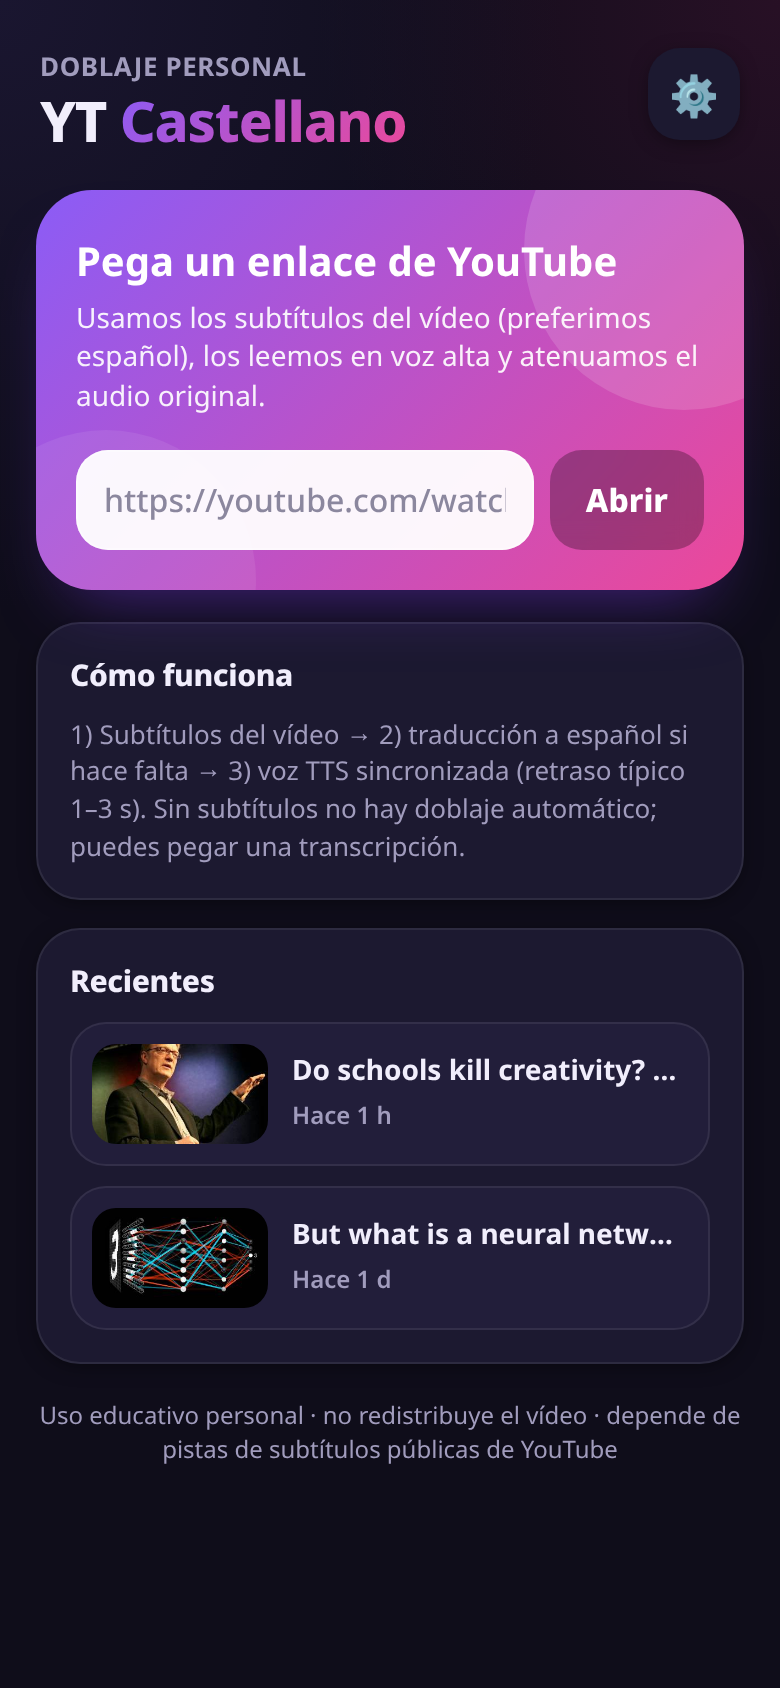
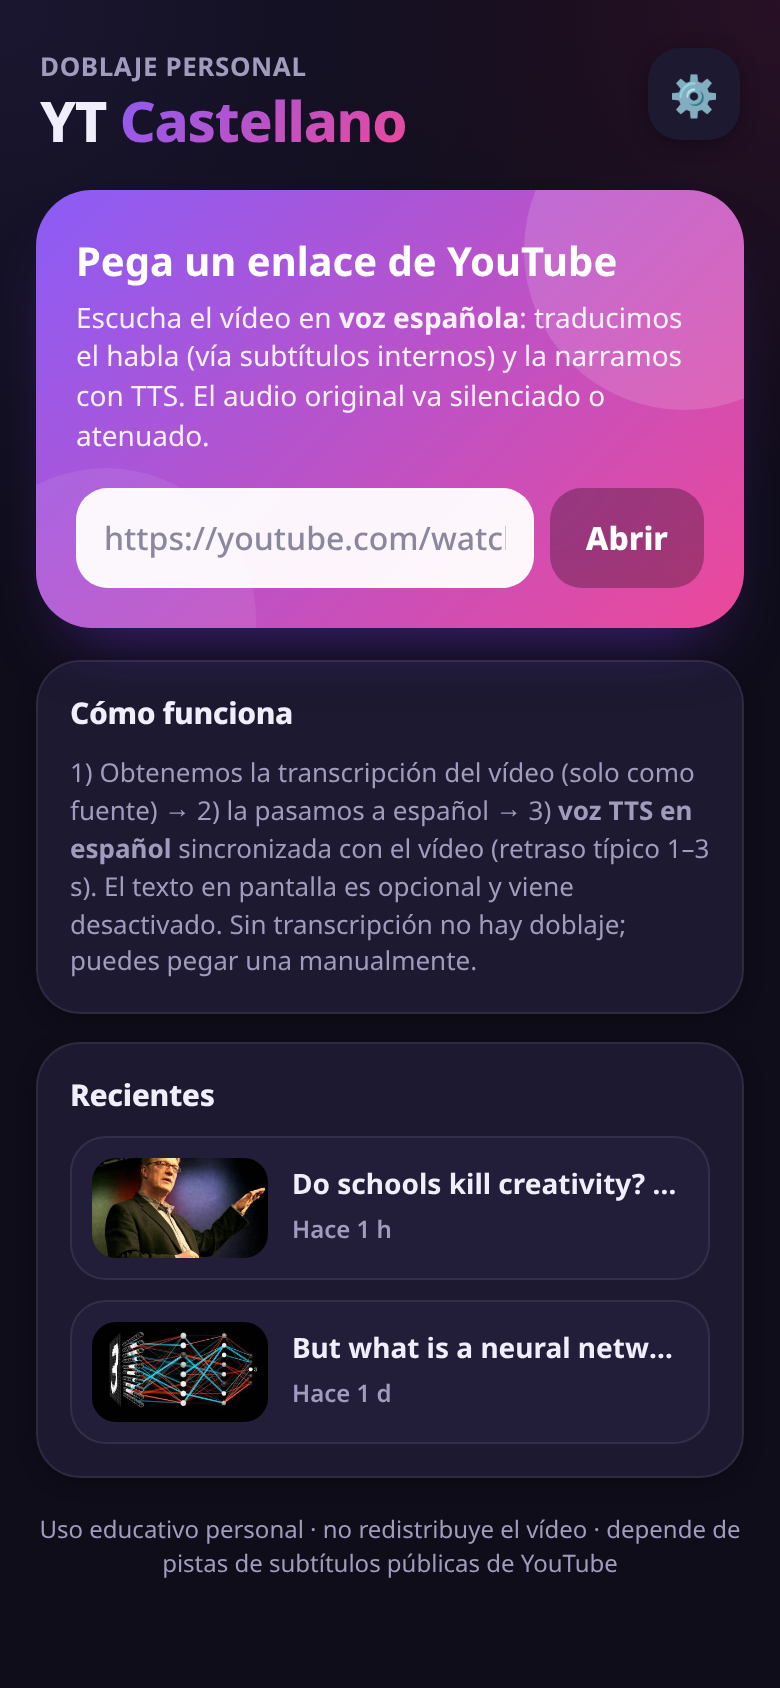
Voice-first defaults: mute original, captions off
Spanish TTS is the product; on-screen text optional.
Bump SW cache; refresh screenshots; Pages workflow.

diff --git a/app.js b/app.js
@@ -49,13 +49,13 @@
   ];
 
   const DEFAULT_SETTINGS = {
-    originalVolume: 20,      // 0–100 YouTube volume while Spanish speaks
-    idleVolume: 55,          // volume when not speaking
-    muteOriginal: false,
+    originalVolume: 8,       // residual original while Spanish speaks (if not muted)
+    idleVolume: 25,          // original between Spanish phrases (if not muted)
+    muteOriginal: true,      // product default: hear Spanish voice, not English audio
     voiceRate: 1.05,
     voicePitch: 1,
-    showCaptions: true,
-    lookahead: 0.35,         // seconds before caption start to trigger TTS
+    showCaptions: false,     // on-screen Spanish text is optional; TTS is the product
+    lookahead: 0.35,         // seconds before segment start to trigger TTS
     ducking: true,
     preferSpanishTrack: true,
     captionProxy: '',        // optional Cloudflare Worker URL
@@ -401,7 +401,7 @@
       if (found >= 0) idx = found;
     }
     if (idx < 0 || !state.segments[idx]) {
-      el.innerHTML = '<span style="color:var(--muted);font-weight:600">Esperando voz en español…</span>';
+      el.innerHTML = '<span style="color:var(--muted);font-weight:600">Reproduciendo voz en español…</span>';
       return;
     }
     const s = state.segments[idx];
@@ -437,7 +437,7 @@
       events: {
         onReady: (e) => {
           applyDucking(false);
-          state.status = { kind: 'ok', msg: `${state.segments.length} frases listas · voz ES` };
+          state.status = { kind: 'ok', msg: `Voz española activa · ${state.segments.length} frases` };
           renderStatusOnly();
           syncLoop();
           try { e.target.playVideo(); } catch { /* autoplay may block */ }
@@ -495,7 +495,7 @@
 
       <section class="hero-card">
         <h2>Pega un enlace de YouTube</h2>
-        <p>Usamos los subtítulos del vídeo (preferimos español), los leemos en voz alta y atenuamos el audio original.</p>
+        <p>Escucha el vídeo en <b>voz española</b>: traducimos el habla (vía subtítulos internos) y la narramos con TTS. El audio original va silenciado o atenuado.</p>
         <div class="url-row">
           <input id="url-input" type="url" inputmode="url" autocomplete="off" spellcheck="false"
             placeholder="https://youtube.com/watch?v=…">
@@ -505,7 +505,7 @@
 
       <section class="card">
         <h3>Cómo funciona</h3>
-        <p class="hint">1) Subtítulos del vídeo → 2) traducción a español si hace falta → 3) voz TTS sincronizada (retraso típico 1–3 s). Sin subtítulos no hay doblaje automático; puedes pegar una transcripción.</p>
+        <p class="hint">1) Obtenemos la transcripción del vídeo (solo como fuente) → 2) la pasamos a español → 3) <b>voz TTS en español</b> sincronizada con el vídeo (retraso típico 1–3 s). El texto en pantalla es opcional y viene desactivado. Sin transcripción no hay doblaje; puedes pegar una manualmente.</p>
       </section>
 
       <section class="card">
@@ -535,7 +535,7 @@
       </div>
 
       <div class="caption-box ${state.settings.showCaptions ? '' : 'hidden'}" id="caption-box">
-        <span style="color:var(--muted);font-weight:600">Cargando subtítulos…</span>
+        <span style="color:var(--muted);font-weight:600">Preparando voz en español…</span>
       </div>
 
       <div class="card controls">
@@ -555,8 +555,8 @@
           <input type="range" id="rng-rate" min="0.7" max="1.4" step="0.05" value="${state.settings.voiceRate}">
           <output id="out-rate">${Number(state.settings.voiceRate).toFixed(2)}×</output>
         </div>
-        <div class="toggle" id="tog-mute"><span>Silenciar original</span><button type="button" class="switch ${state.settings.muteOriginal ? 'on' : ''}" data-key="muteOriginal" aria-pressed="${state.settings.muteOriginal}"></button></div>
-        <div class="toggle" id="tog-caps"><span>Mostrar texto en español</span><button type="button" class="switch ${state.settings.showCaptions ? 'on' : ''}" data-key="showCaptions" aria-pressed="${state.settings.showCaptions}"></button></div>
+        <div class="toggle" id="tog-mute"><span>Silenciar audio original (recomendado)</span><button type="button" class="switch ${state.settings.muteOriginal ? 'on' : ''}" data-key="muteOriginal" aria-pressed="${state.settings.muteOriginal}"></button></div>
+        <div class="toggle" id="tog-caps"><span>Mostrar texto (opcional)</span><button type="button" class="switch ${state.settings.showCaptions ? 'on' : ''}" data-key="showCaptions" aria-pressed="${state.settings.showCaptions}"></button></div>
       </div>
 
       <div class="play-bar">
@@ -795,7 +795,7 @@
     state.segments = [];
     state.lastSpokenIdx = -1;
     state.currentIdx = -1;
-    state.status = { kind: 'busy', msg: 'Buscando subtítulos…' };
+    state.status = { kind: 'busy', msg: 'Preparando doblaje en español…' };
     state.view = 'player';
     render();
 
@@ -812,15 +812,15 @@
         }
       } catch { /* */ }
       pushRecent(id, state.title);
-      state.status = { kind: 'ok', msg: `${segments.length} frases · origen ${langUsed}` };
+      state.status = { kind: 'ok', msg: `Voz ES lista · ${segments.length} frases` };
       renderStatusOnly();
       updateCaptionBox(0);
       if (state.ytReady) mountPlayer();
     } catch (err) {
       console.error(err);
-      state.status = { kind: 'err', msg: 'Sin subtítulos — pega una transcripción' };
+      state.status = { kind: 'err', msg: 'Sin transcripción — pégala para poder doblar' };
       renderStatusOnly();
-      toast('No se pudieron obtener subtítulos');
+      toast('No hay transcripción automática; pega una para doblar');
       openPasteSheet();
     }
   }

diff --git a/tools/shots.js b/tools/shots.js
@@ -15,47 +15,48 @@ fs.mkdirSync(out, { recursive: true });
   });
   const page = await ctx.newPage();
 
-  // Seed recent + settings for prettier home
   await page.goto('http://127.0.0.1:8765/', { waitUntil: 'domcontentloaded' });
   await page.evaluate(() => {
+    localStorage.clear();
     localStorage.setItem('ytcast-recent-v1', JSON.stringify([
       { id: 'iG9CE55wbtY', title: 'Do schools kill creativity? | Sir Ken Robinson | TED', at: Date.now() - 3600000 },
       { id: 'aircAruvnKk', title: 'But what is a neural network? | Deep learning', at: Date.now() - 86400000 },
     ]));
   });
   await page.reload({ waitUntil: 'networkidle' });
-  await page.waitForTimeout(600);
+  await page.waitForTimeout(700);
   await page.screenshot({ path: `${out}/home.png`, fullPage: false });
-  console.log('home.png');
+  console.log('home');
 
-  // Settings sheet on home
   await page.click('#btn-settings');
-  await page.waitForTimeout(400);
+  await page.waitForTimeout(450);
   await page.screenshot({ path: `${out}/settings.png`, fullPage: false });
-  console.log('settings.png');
+  console.log('settings');
   await page.click('#set-close');
 
-  // Playing view with captions
   await page.goto('http://127.0.0.1:8765/?v=iG9CE55wbtY', { waitUntil: 'domcontentloaded' });
   await page.waitForFunction(() => window.__ytCast?.state?.segments?.length > 10, null, { timeout: 120000 });
-  await page.waitForTimeout(1500);
-  // Force caption box content
+  await page.waitForTimeout(1200);
   await page.evaluate(() => {
-    window.__ytCast.state.currentIdx = 1;
-    window.__ytCast.state.settings.showCaptions = true;
-    const s = window.__ytCast.state.segments[1];
-    const el = document.getElementById('caption-box');
-    if (el) el.textContent = s.textEs;
+    // Product view: captions OFF, mute ON
+    window.__ytCast.state.settings.showCaptions = false;
+    window.__ytCast.state.settings.muteOriginal = true;
+    const box = document.getElementById('caption-box');
+    if (box) box.classList.add('hidden');
+    document.querySelectorAll('.switch[data-key]').forEach((sw) => {
+      const key = sw.getAttribute('data-key');
+      const on = !!window.__ytCast.state.settings[key];
+      sw.classList.toggle('on', on);
+    });
     const pill = document.getElementById('status-pill');
     if (pill) {
       pill.className = 'status-pill ok';
-      pill.innerHTML = '<i class="dot"></i><span>275 frases · origen es</span>';
+      pill.innerHTML = '<i class="dot"></i><span>Voz española activa · 275 frases</span>';
     }
   });
   await page.waitForTimeout(400);
   await page.screenshot({ path: `${out}/playing.png`, fullPage: false });
-  console.log('playing.png');
-
+  console.log('playing');
   await b.close();
   console.log('SHOTS_OK');
 })().catch((e) => { console.error(e); process.exit(1); });

diff --git a/tools/debug.js b/tools/debug.js
@@ -1,0 +1,35 @@
+const { chromium } = require('playwright-core');
+(async () => {
+  const b = await chromium.launch({ executablePath: '/usr/bin/google-chrome', args: ['--no-sandbox'] });
+  const page = await b.newPage({ viewport: { width: 390, height: 844 } });
+  page.on('console', (m) => console.log('CONSOLE', m.type(), m.text()));
+  page.on('pageerror', (e) => console.log('PAGEERROR', e.message));
+  page.on('requestfailed', (r) => console.log('REQFAIL', r.url(), r.failure()?.errorText));
+
+  await page.goto('http://127.0.0.1:8765/', { waitUntil: 'networkidle' });
+  const has = await page.evaluate(() => !!window.__ytCast);
+  console.log('has ytCast', has);
+
+  // Direct fetch from page
+  const fetchTest = await page.evaluate(async () => {
+    try {
+      const res = await fetch('https://youtubegpt.ai/api/transcript?v=iG9CE55wbtY&format=json&lang=es');
+      const t = await res.text();
+      return { status: res.status, len: t.length, start: t.slice(0, 120) };
+    } catch (e) {
+      return { err: String(e) };
+    }
+  });
+  console.log('fetchTest', fetchTest);
+
+  const r = await page.evaluate(async () => {
+    try {
+      return await window.__ytCast.fetchCaptions('iG9CE55wbtY');
+    } catch (e) {
+      return { error: String(e), stack: e.stack };
+    }
+  });
+  console.log('fetchCaptions', JSON.stringify(r).slice(0, 500));
+
+  await b.close();
+})().catch((e) => { console.error(e); process.exit(1); });

diff --git a/sw.js b/sw.js
@@ -1,5 +1,5 @@
 /* Service worker — cache-first de la app estática. */
-const CACHE_VERSION = 'yt-castellano-v1';
+const CACHE_VERSION = 'yt-castellano-v2';
 const ASSETS = [
   './', './index.html', './styles.css', './app.js', './manifest.json',
   './icons/icon-192.png', './icons/icon-512.png', './icons/icon-maskable-512.png', './icons/apple-touch-icon.png'

diff --git a/README.md b/README.md
@@ -1,6 +1,6 @@
 # YT Castellano (PWA)
 
-Doblaje aproximado en español de vídeos de YouTube: pegas el enlace, la app lee los **subtítulos públicos** del vídeo (preferencia español), los sintetiza con **Web Speech API** (`es-ES`) y atenúa o silencia el audio original.
+Doblaje aproximado en español de vídeos de YouTube: pegas el enlace y **oyes una voz TTS en español** del contenido hablado. Los subtítulos/transcripción son solo la fuente interna (traducción → voz); el texto en pantalla es opcional y viene **desactivado**. Por defecto el audio original va **silenciado**.
 
 **Uso educativo / personal.** No descarga ni redistribuye el media de YouTube; depende de las pistas de subtítulos públicas y del reproductor iframe oficial. No redistribuir contenidos de terceros.
 
